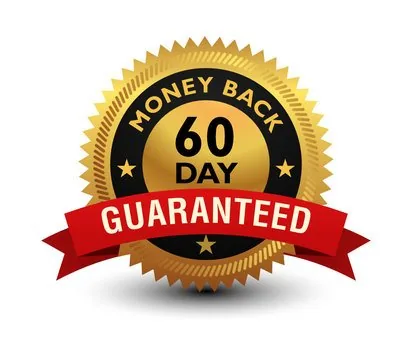
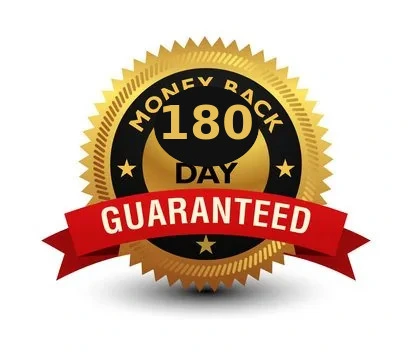
DTC aggressive creatives + 180-day guarantee everywhere (text + seal)

Changed region(s): [[0.3495, 0.2444, 0.6408, 0.4889]]

diff --git a/sales.html b/sales.html
@@ -179,7 +179,7 @@ h3{font-size:18px;margin:0 0 4px;font-weight:800}
       <li><b>Firmer, lifted skin</b> &mdash; no needles, no $12,000 BBL</li>
     </ul>
     <a class="cta" href="#offer">Get Up To 64% Off &rarr;</a>
-    <p class="subcta">Available online only &middot; While supplies last &middot; Free shipping &amp; 60-day money-back guarantee</p>
+    <p class="subcta">Available online only &middot; While supplies last &middot; Free shipping &amp; 180-day money-back guarantee</p>
     <img class="prod" src="img/00-product.webp" alt="Bumbum guaraná modelador jar" onerror="this.style.display='none'">
   </div>
 
@@ -234,8 +234,8 @@ h3{font-size:18px;margin:0 0 4px;font-weight:800}
 
   <div class="gcta">
     <img src="img/01-hero.webp" alt="Bumbum jar" onerror="this.style.display='none'">
-    <div class="t" style="font-weight:900;font-size:19px;color:#14181f">Try Bumbum &mdash; 60 Days Risk-Free</div>
-    <p style="margin:6px 0 12px;font-size:14.5px;color:#444">Every order is backed by our 60-day money-back guarantee. All transactions are secure and encrypted.</p>
+    <div class="t" style="font-weight:900;font-size:19px;color:#14181f">Try Bumbum &mdash; 180 Days Risk-Free</div>
+    <p style="margin:6px 0 12px;font-size:14.5px;color:#444">Every order is backed by our 180-day money-back guarantee. All transactions are secure and encrypted.</p>
     <a class="cta" href="#offer" style="margin-top:0">Get Up To 64% Off &rarr;</a>
     <p class="cscar">&#128666; Ships in 24h from the USA &middot; small-batch &mdash; may sell out</p>
   </div>
@@ -263,7 +263,7 @@ h3{font-size:18px;margin:0 0 4px;font-weight:800}
       <tr><th>Softens cellulite &amp; stretch marks</th><td class="no">&#10007;</td><td class="no">&#10007;</td><td>Some</td><td class="best">Both</td></tr>
       <tr><th>No needles, no downtime</th><td class="yes">&#10003;</td><td class="yes">&#10003;</td><td class="no">&#10007;</td><td class="best">&#10003;</td></tr>
       <tr><th>Typical cost</th><td>~$120/jar</td><td>$200+/visit</td><td>$8k&ndash;$15k</td><td class="best">from $25/jar</td></tr>
-      <tr><th>60-day money-back</th><td class="no">&#10007;</td><td class="no">&#10007;</td><td class="no">&#10007;</td><td class="best">&#10003;</td></tr>
+      <tr><th>180-day money-back</th><td class="no">&#10007;</td><td class="no">&#10007;</td><td class="no">&#10007;</td><td class="best">&#10003;</td></tr>
     </tbody>
   </table>
 
@@ -298,14 +298,14 @@ h3{font-size:18px;margin:0 0 4px;font-weight:800}
   <p>The curve only bends upward around week 6 &mdash; which is exactly why most women order <b>2&ndash;3 jars</b> and finish the full cycle instead of stopping right as their skin starts to turn.</p>
 
   <div class="gtee">
-    <img src="img/guarantee-seal.webp" alt="60-day money-back guarantee" onerror="this.style.display='none'">
-    <div class="t">60-Day Money-Back Guarantee</div>
-    <p style="margin:0">Try Bumbum for a full 60 days. If your bottom isn&rsquo;t visibly firmer &mdash; for any reason &mdash; email us and get every penny back, even on an opened jar. Most women never send it back.</p>
+    <img src="img/guarantee-seal.webp" alt="180-day money-back guarantee" onerror="this.style.display='none'">
+    <div class="t">180-Day Money-Back Guarantee</div>
+    <p style="margin:0">Try Bumbum for a full 180 days. If your bottom isn&rsquo;t visibly firmer &mdash; for any reason &mdash; email us and get every penny back, even on an opened jar. Most women never send it back.</p>
     <p style="margin:8px 0 0;font-size:13px;color:var(--muted)">Questions? support@itsbrazilianusa.com</p>
   </div>
 
   <div class="gtee2">
-    <div class="t">Firmer In 60 Days &mdash; Or You Pay Nothing. Period.</div>
+    <div class="t">Firmer In 180 Days &mdash; Or You Pay Nothing. Period.</div>
     <p style="margin:0">We&rsquo;ll say it plainly: the only real risk is doing nothing and staying exactly where you are six months from now. The risk of trying sits entirely with us.</p>
   </div>
 
@@ -316,7 +316,7 @@ h3{font-size:18px;margin:0 0 4px;font-weight:800}
     <details><summary>How long does one jar last?</summary><p>About 4 weeks with daily use on the bottom and thighs. Most women choose the 2 or 3-jar kit to finish the full 60&ndash;90 day cycle without running out mid-transformation.</p></details>
     <details><summary>Is it safe for sensitive skin?</summary><p>It&rsquo;s a topical cosmetic &mdash; guaran&aacute;, cupua&ccedil;u butter and a&ccedil;a&iacute;, cruelty-free and dermatologist-tested. Most report only a light guaran&aacute; warmth. Patch-test first if your skin is sensitive, and discontinue if irritation occurs.</p></details>
     <details><summary>Can I use it on thighs, tummy and arms?</summary><p>Yes. Women use the same 60-second ritual anywhere skin looks soft, dimpled or crepey &mdash; thighs, tummy, upper arms. Same cream, same technique.</p></details>
-    <details><summary>What if it doesn&rsquo;t work for me?</summary><p>You pay nothing. Every order is covered by a 60-day money-back guarantee &mdash; even on an opened jar. Email us and get a complete refund. No questions.</p></details>
+    <details><summary>What if it doesn&rsquo;t work for me?</summary><p>You pay nothing. Every order is covered by a 180-day money-back guarantee &mdash; even on an opened jar. Email us and get a complete refund. No questions.</p></details>
     <details><summary>How long will the discount last?</summary><p>The current discount is available while supplies last. Bumbum is small-batch and blended in the USA; when this batch sells out, restocking takes weeks, and the discount may not return.</p></details>
   </div>
 
@@ -337,7 +337,7 @@ h3{font-size:18px;margin:0 0 4px;font-weight:800}
       <li><b>8 fl oz (237 mL) jar</b> &mdash; about 30 days of the daily 60-second ritual</li>
       <li><b>The full guaran&aacute; modelador blend</b> &mdash; concentrated guaran&aacute;, cupua&ccedil;u butter &amp; Amazonian a&ccedil;a&iacute;</li>
       <li><b>Quick-start routine card</b> &mdash; exactly how and where to apply for best results</li>
-      <li><b>60-day money-back guarantee</b> &mdash; keep the jar even if you send it back</li>
+      <li><b>180-day money-back guarantee</b> &mdash; keep the jar even if you send it back</li>
     </ul>
   </div>
 
@@ -351,18 +351,18 @@ h3{font-size:18px;margin:0 0 4px;font-weight:800}
       <a class="pack" href="https://itsbrazilianusa.com/cart/53028021895457:1"><span class="badge">Best value</span><img src="img/pack-6.webp" alt="" onerror="this.style.display='none'"><div class="q">6 Jars</div><div class="was">$419.94</div><div class="now">$149.99</div><div class="per">$25.00/jar</div><div class="off">64% OFF</div></a>
     </div>
     <a class="cta" href="https://itsbrazilianusa.com/cart/53027149545761:1">Get Up To 64% Off &rarr;</a>
-    <p class="reassure">&#128274; Secure checkout &middot; &#128666; Free US shipping &middot; &#9989; 60-day money-back guarantee &mdash; keep the jar</p>
+    <p class="reassure">&#128274; Secure checkout &middot; &#128666; Free US shipping &middot; &#9989; 180-day money-back guarantee &mdash; keep the jar</p>
   </div>
   <div class="scarce">&#9203; Bumbum is small-batch and blended in the USA. When a batch sells out, restocking takes about 30 days &mdash; and this discount may not return with it. If it&rsquo;s in stock, this is the time.</div>
 
   <ul class="bonus">
     <li>Biggest discount &mdash; up to 64% off at today&rsquo;s price</li>
     <li>Free US shipping on every kit</li>
-    <li>60-day money-back guarantee &mdash; keep the jar</li>
+    <li>180-day money-back guarantee &mdash; keep the jar</li>
     <li>Free lifetime customer support</li>
   </ul>
   <a class="cta" href="https://itsbrazilianusa.com/cart/53027149545761:1">Claim Your Discount Before This Batch Is Gone &rarr;</a>
-  <p class="subcta">One-time purchase &middot; no subscription &middot; free US shipping &middot; 60-day money-back guarantee</p>
+  <p class="subcta">One-time purchase &middot; no subscription &middot; free US shipping &middot; 180-day money-back guarantee</p>
 
   <p class="disc"><b>Advertisement.</b> This is a paid advertisement, not a news article, blog, or consumer-protection update. Bumbum is a cosmetic product for the appearance of skin firmness. It is not a drug and is not intended to diagnose, treat, cure or prevent any disease, and is not a substitute for surgery or any medical treatment. It is not affiliated with, endorsed by, or a replacement for any surgical or injection brand. Any research referenced evaluates the individual ingredients (the caffeine/guaran&aacute; class, cupua&ccedil;u, a&ccedil;a&iacute;), not this finished product, and has not been independently verified here. Statements regarding the product have not been evaluated by the FDA. Individual results vary and are not guaranteed. Testimonials and before/after images reflect voluntary individual reports and do not represent typical results; some names and images shown are illustrative representations used to protect customer privacy. Consult a professional for any skin concern.
   <br><br><b>Clinical research:</b> 1) <i>Cosmetics</i> (MDPI), 2025, 12(4):155 &mdash; topical caffeine cream-gel for cellulite (56 participants, 8 weeks). 2) <i>Pharmaceutics</i> (MDPI), 2026, 18(2):151 &mdash; randomized double-blind caffeine cream, 12 weeks. 3) <i>Industrial Crops &amp; Products</i> &mdash; a&ccedil;a&iacute; (<i>Euterpe oleracea</i>) collagenase/elastase inhibition.</p>

diff --git a/advertorial.html b/advertorial.html
@@ -222,7 +222,7 @@ p{margin:0 0 16px}
     <figure><img src="img/ing-acai.webp" alt="Amazonian açaí" onerror="this.style.display='none'"><figcaption><b>A&ccedil;a&iacute;</b> &mdash; one of earth&rsquo;s densest antioxidants; defends against daily skin breakdown</figcaption></figure>
   </div>
   <p><b>Guaran&aacute; tightens</b> &mdash; but tight skin still needs to be fed, so they add <b>cupua&ccedil;u butter</b> to hydrate the crepey, deflated look. Then <b>Amazonian a&ccedil;a&iacute;</b> &mdash; studied for its effect on the enzymes that break down collagen and elastin &mdash; to defend the skin from the daily breakdown that leaves a bottom looking flat. Most creams stop at one watered-down active. This one layers three, each with a job.</p>
-  <p>And the thing that finally got me over the line: a <b>60-day money-back guarantee.</b> Firmer, or every penny back &mdash; even on an opened, half-used jar. So I did the math. One jar to test the water, or the multi-jar kit for the full cycle at the biggest discount. Lorena said, &ldquo;Buy the three. Trust me &mdash; nobody sees it in two weeks and nobody quits after they do.&rdquo; I bought the three.</p>
+  <p>And the thing that finally got me over the line: a <b>180-day money-back guarantee.</b> Firmer, or every penny back &mdash; even on an opened, half-used jar. So I did the math. One jar to test the water, or the multi-jar kit for the full cycle at the biggest discount. Lorena said, &ldquo;Buy the three. Trust me &mdash; nobody sees it in two weeks and nobody quits after they do.&rdquo; I bought the three.</p>
 
   <h2>My 90 Days (I Kept Notes, Because I Didn&rsquo;t Believe It)</h2>
   <div class="diary"><div class="wk">Days 1&ndash;5</div>The first thing I noticed wasn&rsquo;t visual &mdash; it was a <b>warmth</b> and a tighter feeling after the shower. The guaran&aacute; does something you can feel. I caught myself actually looking forward to the 60 seconds. It felt like doing something <em>for</em> myself instead of hiding from myself.</div>
@@ -248,7 +248,7 @@ p{margin:0 0 16px}
   <div class="obj"><div class="q">&ldquo;I&rsquo;m too old / it&rsquo;s too far gone.&rdquo;</div>The whole point is the layer, not your age. Septae stiffen with time &mdash; that&rsquo;s <em>why</em> this shows up after 40, 50, 60. Reaching that layer is exactly what the modelador ritual is built for. The women who write in the happiest are usually the ones who&rsquo;d already &ldquo;given up.&rdquo;</div>
   <div class="obj"><div class="q">&ldquo;My skin went loose after weight loss (or a GLP-1).&rdquo;</div>Rapid loss leaves skin that used to be filled out suddenly looking deflated and crepey &mdash; a firmness problem, not a fat problem. That&rsquo;s the same middle layer. Hydration plus the tightening active is aimed right at it.</div>
   <div class="obj"><div class="q">&ldquo;Even if it works, it&rsquo;ll just wear off.&rdquo;</div>It&rsquo;s a daily 60-second ritual, like brushing your teeth &mdash; not a one-time reset. Brazilian women don&rsquo;t do it for 8 weeks and stop. They do it because it&rsquo;s just part of the day. The results hold as long as the ritual does.</div>
-  <div class="obj"><div class="q">&ldquo;The testimonials are probably fake.&rdquo;</div>I thought so too. That&rsquo;s the entire reason there&rsquo;s a 60-day money-back guarantee on an opened jar &mdash; so you don&rsquo;t have to trust a stranger&rsquo;s photo. You test it on <em>your</em> skin, and if it doesn&rsquo;t do what they say, you send it back and it cost you nothing.</div>
+  <div class="obj"><div class="q">&ldquo;The testimonials are probably fake.&rdquo;</div>I thought so too. That&rsquo;s the entire reason there&rsquo;s a 180-day money-back guarantee on an opened jar &mdash; so you don&rsquo;t have to trust a stranger&rsquo;s photo. You test it on <em>your</em> skin, and if it doesn&rsquo;t do what they say, you send it back and it cost you nothing.</div>
   <div class="obj"><div class="q">&ldquo;I can&rsquo;t afford another thing that doesn&rsquo;t work.&rdquo;</div>That&rsquo;s the honest one. Which is why I&rsquo;d rather you try one jar you can send back for a full refund than sink money into another spa package &mdash; or a $12,000 surgery with no guarantee at all. The guarantee is designed so the risk sits on them, not on you.</div>
   <p>Here&rsquo;s the honest expectation-setting, because I won&rsquo;t insult you: <b>this is not overnight, and it is not surgery.</b> It&rsquo;s a daily ritual that women report following this rough timeline:</p>
   <div class="anchorbox">
@@ -259,8 +259,8 @@ p{margin:0 0 16px}
   <p>That&rsquo;s why the women who actually see it through order 2&ndash;3 jars and finish the full cycle &mdash; instead of quitting at week two, right when the skin is about to turn.</p>
 
   <h2 id="offer">Where Rachel Got It</h2>
-  <p>Bumbum doesn&rsquo;t sit on a shelf next to the designer jars &mdash; it ships direct from the brand, and it&rsquo;s the same guaran&aacute; modelador Lorena has used for years. What finally made me comfortable trying it was the <b>60-day money-back guarantee:</b> firmer, or every penny back &mdash; even on an opened, half-used jar. The risk sits with them, not with you.</p>
-  <figure><img src="img/guarantee-seal.webp" alt="60-day money-back guarantee" style="max-width:150px;margin:0 auto"><figcaption>Firmer in 60 days or every penny back &mdash; even on an opened jar.</figcaption></figure>
+  <p>Bumbum doesn&rsquo;t sit on a shelf next to the designer jars &mdash; it ships direct from the brand, and it&rsquo;s the same guaran&aacute; modelador Lorena has used for years. What finally made me comfortable trying it was the <b>180-day money-back guarantee:</b> firmer, or every penny back &mdash; even on an opened, half-used jar. The risk sits with them, not with you.</p>
+  <figure><img src="img/guarantee-seal.webp" alt="180-day money-back guarantee" style="max-width:150px;margin:0 auto"><figcaption>Firmer in 180 days or every penny back &mdash; even on an opened jar.</figcaption></figure>
   <p>Because it&rsquo;s small-batch and blended in the USA, it does sell out &mdash; Lorena warned me hers was on backorder once for three weeks. If it&rsquo;s in stock when you check, I wouldn&rsquo;t wait and hope it&rsquo;s there next week.</p>
 
   <h2 id="reviews">Real Women, Real Results</h2>
@@ -278,9 +278,9 @@ p{margin:0 0 16px}
   <p>Six months from now you&rsquo;ll be one of two women.</p>
   <p>The first is still wrapping the sarong. Still angling out of the photo. Still reaching for the light switch. Still telling her kid she &ldquo;doesn&rsquo;t feel like swimming.&rdquo; Nothing changed, because nothing changed.</p>
   <p>The second one gave it 60 seconds a day &mdash; and got in the pool.</p>
-  <p>The only thing standing between them is a decision you can make in the next 90 seconds &mdash; while it&rsquo;s in stock and the 60-day guarantee keeps every dollar of the risk on them, not you. I waited six years to try something that costs 60 seconds a day. Don&rsquo;t be me. Start today.</p>
+  <p>The only thing standing between them is a decision you can make in the next 90 seconds &mdash; while it&rsquo;s in stock and the 180-day guarantee keeps every dollar of the risk on them, not you. I waited six years to try something that costs 60 seconds a day. Don&rsquo;t be me. Start today.</p>
   <a class="cta" href="sales.html">Check availability &rarr;</a>
-  <p class="sub">One-time purchase &middot; no subscription &middot; free US shipping &middot; 60-day money-back guarantee</p>
+  <p class="sub">One-time purchase &middot; no subscription &middot; free US shipping &middot; 180-day money-back guarantee</p>
 
   <div class="author">
     <div><div class="n">Medically reviewed by Dr. Beatriz Moreira, M.D.</div><div class="r">Board-Certified Dermatologist &middot; Skin &amp; Body. Dr. Moreira reviews Brazilian skincare content for HealthWire.</div></div>

diff --git a/index.html b/index.html
@@ -222,7 +222,7 @@ p{margin:0 0 16px}
     <figure><img src="img/ing-acai.webp" alt="Amazonian açaí" onerror="this.style.display='none'"><figcaption><b>A&ccedil;a&iacute;</b> &mdash; one of earth&rsquo;s densest antioxidants; defends against daily skin breakdown</figcaption></figure>
   </div>
   <p><b>Guaran&aacute; tightens</b> &mdash; but tight skin still needs to be fed, so they add <b>cupua&ccedil;u butter</b> to hydrate the crepey, deflated look. Then <b>Amazonian a&ccedil;a&iacute;</b> &mdash; studied for its effect on the enzymes that break down collagen and elastin &mdash; to defend the skin from the daily breakdown that leaves a bottom looking flat. Most creams stop at one watered-down active. This one layers three, each with a job.</p>
-  <p>And the thing that finally got me over the line: a <b>60-day money-back guarantee.</b> Firmer, or every penny back &mdash; even on an opened, half-used jar. So I did the math. One jar to test the water, or the multi-jar kit for the full cycle at the biggest discount. Lorena said, &ldquo;Buy the three. Trust me &mdash; nobody sees it in two weeks and nobody quits after they do.&rdquo; I bought the three.</p>
+  <p>And the thing that finally got me over the line: a <b>180-day money-back guarantee.</b> Firmer, or every penny back &mdash; even on an opened, half-used jar. So I did the math. One jar to test the water, or the multi-jar kit for the full cycle at the biggest discount. Lorena said, &ldquo;Buy the three. Trust me &mdash; nobody sees it in two weeks and nobody quits after they do.&rdquo; I bought the three.</p>
 
   <h2>My 90 Days (I Kept Notes, Because I Didn&rsquo;t Believe It)</h2>
   <div class="diary"><div class="wk">Days 1&ndash;5</div>The first thing I noticed wasn&rsquo;t visual &mdash; it was a <b>warmth</b> and a tighter feeling after the shower. The guaran&aacute; does something you can feel. I caught myself actually looking forward to the 60 seconds. It felt like doing something <em>for</em> myself instead of hiding from myself.</div>
@@ -248,7 +248,7 @@ p{margin:0 0 16px}
   <div class="obj"><div class="q">&ldquo;I&rsquo;m too old / it&rsquo;s too far gone.&rdquo;</div>The whole point is the layer, not your age. Septae stiffen with time &mdash; that&rsquo;s <em>why</em> this shows up after 40, 50, 60. Reaching that layer is exactly what the modelador ritual is built for. The women who write in the happiest are usually the ones who&rsquo;d already &ldquo;given up.&rdquo;</div>
   <div class="obj"><div class="q">&ldquo;My skin went loose after weight loss (or a GLP-1).&rdquo;</div>Rapid loss leaves skin that used to be filled out suddenly looking deflated and crepey &mdash; a firmness problem, not a fat problem. That&rsquo;s the same middle layer. Hydration plus the tightening active is aimed right at it.</div>
   <div class="obj"><div class="q">&ldquo;Even if it works, it&rsquo;ll just wear off.&rdquo;</div>It&rsquo;s a daily 60-second ritual, like brushing your teeth &mdash; not a one-time reset. Brazilian women don&rsquo;t do it for 8 weeks and stop. They do it because it&rsquo;s just part of the day. The results hold as long as the ritual does.</div>
-  <div class="obj"><div class="q">&ldquo;The testimonials are probably fake.&rdquo;</div>I thought so too. That&rsquo;s the entire reason there&rsquo;s a 60-day money-back guarantee on an opened jar &mdash; so you don&rsquo;t have to trust a stranger&rsquo;s photo. You test it on <em>your</em> skin, and if it doesn&rsquo;t do what they say, you send it back and it cost you nothing.</div>
+  <div class="obj"><div class="q">&ldquo;The testimonials are probably fake.&rdquo;</div>I thought so too. That&rsquo;s the entire reason there&rsquo;s a 180-day money-back guarantee on an opened jar &mdash; so you don&rsquo;t have to trust a stranger&rsquo;s photo. You test it on <em>your</em> skin, and if it doesn&rsquo;t do what they say, you send it back and it cost you nothing.</div>
   <div class="obj"><div class="q">&ldquo;I can&rsquo;t afford another thing that doesn&rsquo;t work.&rdquo;</div>That&rsquo;s the honest one. Which is why I&rsquo;d rather you try one jar you can send back for a full refund than sink money into another spa package &mdash; or a $12,000 surgery with no guarantee at all. The guarantee is designed so the risk sits on them, not on you.</div>
   <p>Here&rsquo;s the honest expectation-setting, because I won&rsquo;t insult you: <b>this is not overnight, and it is not surgery.</b> It&rsquo;s a daily ritual that women report following this rough timeline:</p>
   <div class="anchorbox">
@@ -259,8 +259,8 @@ p{margin:0 0 16px}
   <p>That&rsquo;s why the women who actually see it through order 2&ndash;3 jars and finish the full cycle &mdash; instead of quitting at week two, right when the skin is about to turn.</p>
 
   <h2 id="offer">Where Rachel Got It</h2>
-  <p>Bumbum doesn&rsquo;t sit on a shelf next to the designer jars &mdash; it ships direct from the brand, and it&rsquo;s the same guaran&aacute; modelador Lorena has used for years. What finally made me comfortable trying it was the <b>60-day money-back guarantee:</b> firmer, or every penny back &mdash; even on an opened, half-used jar. The risk sits with them, not with you.</p>
-  <figure><img src="img/guarantee-seal.webp" alt="60-day money-back guarantee" style="max-width:150px;margin:0 auto"><figcaption>Firmer in 60 days or every penny back &mdash; even on an opened jar.</figcaption></figure>
+  <p>Bumbum doesn&rsquo;t sit on a shelf next to the designer jars &mdash; it ships direct from the brand, and it&rsquo;s the same guaran&aacute; modelador Lorena has used for years. What finally made me comfortable trying it was the <b>180-day money-back guarantee:</b> firmer, or every penny back &mdash; even on an opened, half-used jar. The risk sits with them, not with you.</p>
+  <figure><img src="img/guarantee-seal.webp" alt="180-day money-back guarantee" style="max-width:150px;margin:0 auto"><figcaption>Firmer in 180 days or every penny back &mdash; even on an opened jar.</figcaption></figure>
   <p>Because it&rsquo;s small-batch and blended in the USA, it does sell out &mdash; Lorena warned me hers was on backorder once for three weeks. If it&rsquo;s in stock when you check, I wouldn&rsquo;t wait and hope it&rsquo;s there next week.</p>
 
   <h2 id="reviews">Real Women, Real Results</h2>
@@ -278,9 +278,9 @@ p{margin:0 0 16px}
   <p>Six months from now you&rsquo;ll be one of two women.</p>
   <p>The first is still wrapping the sarong. Still angling out of the photo. Still reaching for the light switch. Still telling her kid she &ldquo;doesn&rsquo;t feel like swimming.&rdquo; Nothing changed, because nothing changed.</p>
   <p>The second one gave it 60 seconds a day &mdash; and got in the pool.</p>
-  <p>The only thing standing between them is a decision you can make in the next 90 seconds &mdash; while it&rsquo;s in stock and the 60-day guarantee keeps every dollar of the risk on them, not you. I waited six years to try something that costs 60 seconds a day. Don&rsquo;t be me. Start today.</p>
+  <p>The only thing standing between them is a decision you can make in the next 90 seconds &mdash; while it&rsquo;s in stock and the 180-day guarantee keeps every dollar of the risk on them, not you. I waited six years to try something that costs 60 seconds a day. Don&rsquo;t be me. Start today.</p>
   <a class="cta" href="sales.html">Check availability &rarr;</a>
-  <p class="sub">One-time purchase &middot; no subscription &middot; free US shipping &middot; 60-day money-back guarantee</p>
+  <p class="sub">One-time purchase &middot; no subscription &middot; free US shipping &middot; 180-day money-back guarantee</p>
 
   <div class="author">
     <div><div class="n">Medically reviewed by Dr. Beatriz Moreira, M.D.</div><div class="r">Board-Certified Dermatologist &middot; Skin &amp; Body. Dr. Moreira reviews Brazilian skincare content for HealthWire.</div></div>

diff --git a/story.html b/story.html
@@ -222,7 +222,7 @@ p{margin:0 0 16px}
     <figure><img src="img/ing-acai.webp" alt="Amazonian açaí" onerror="this.style.display='none'"><figcaption><b>A&ccedil;a&iacute;</b> &mdash; one of earth&rsquo;s densest antioxidants; defends against daily skin breakdown</figcaption></figure>
   </div>
   <p><b>Guaran&aacute; tightens</b> &mdash; but tight skin still needs to be fed, so they add <b>cupua&ccedil;u butter</b> to hydrate the crepey, deflated look. Then <b>Amazonian a&ccedil;a&iacute;</b> &mdash; studied for its effect on the enzymes that break down collagen and elastin &mdash; to defend the skin from the daily breakdown that leaves a bottom looking flat. Most creams stop at one watered-down active. This one layers three, each with a job.</p>
-  <p>And the thing that finally got me over the line: a <b>60-day money-back guarantee.</b> Firmer, or every penny back &mdash; even on an opened, half-used jar. So I did the math. One jar to test the water, or the multi-jar kit for the full cycle at the biggest discount. Lorena said, &ldquo;Buy the three. Trust me &mdash; nobody sees it in two weeks and nobody quits after they do.&rdquo; I bought the three.</p>
+  <p>And the thing that finally got me over the line: a <b>180-day money-back guarantee.</b> Firmer, or every penny back &mdash; even on an opened, half-used jar. So I did the math. One jar to test the water, or the multi-jar kit for the full cycle at the biggest discount. Lorena said, &ldquo;Buy the three. Trust me &mdash; nobody sees it in two weeks and nobody quits after they do.&rdquo; I bought the three.</p>
 
   <h2>My 90 Days (I Kept Notes, Because I Didn&rsquo;t Believe It)</h2>
   <div class="diary"><div class="wk">Days 1&ndash;5</div>The first thing I noticed wasn&rsquo;t visual &mdash; it was a <b>warmth</b> and a tighter feeling after the shower. The guaran&aacute; does something you can feel. I caught myself actually looking forward to the 60 seconds. It felt like doing something <em>for</em> myself instead of hiding from myself.</div>
@@ -248,7 +248,7 @@ p{margin:0 0 16px}
   <div class="obj"><div class="q">&ldquo;I&rsquo;m too old / it&rsquo;s too far gone.&rdquo;</div>The whole point is the layer, not your age. Septae stiffen with time &mdash; that&rsquo;s <em>why</em> this shows up after 40, 50, 60. Reaching that layer is exactly what the modelador ritual is built for. The women who write in the happiest are usually the ones who&rsquo;d already &ldquo;given up.&rdquo;</div>
   <div class="obj"><div class="q">&ldquo;My skin went loose after weight loss (or a GLP-1).&rdquo;</div>Rapid loss leaves skin that used to be filled out suddenly looking deflated and crepey &mdash; a firmness problem, not a fat problem. That&rsquo;s the same middle layer. Hydration plus the tightening active is aimed right at it.</div>
   <div class="obj"><div class="q">&ldquo;Even if it works, it&rsquo;ll just wear off.&rdquo;</div>It&rsquo;s a daily 60-second ritual, like brushing your teeth &mdash; not a one-time reset. Brazilian women don&rsquo;t do it for 8 weeks and stop. They do it because it&rsquo;s just part of the day. The results hold as long as the ritual does.</div>
-  <div class="obj"><div class="q">&ldquo;The testimonials are probably fake.&rdquo;</div>I thought so too. That&rsquo;s the entire reason there&rsquo;s a 60-day money-back guarantee on an opened jar &mdash; so you don&rsquo;t have to trust a stranger&rsquo;s photo. You test it on <em>your</em> skin, and if it doesn&rsquo;t do what they say, you send it back and it cost you nothing.</div>
+  <div class="obj"><div class="q">&ldquo;The testimonials are probably fake.&rdquo;</div>I thought so too. That&rsquo;s the entire reason there&rsquo;s a 180-day money-back guarantee on an opened jar &mdash; so you don&rsquo;t have to trust a stranger&rsquo;s photo. You test it on <em>your</em> skin, and if it doesn&rsquo;t do what they say, you send it back and it cost you nothing.</div>
   <div class="obj"><div class="q">&ldquo;I can&rsquo;t afford another thing that doesn&rsquo;t work.&rdquo;</div>That&rsquo;s the honest one. Which is why I&rsquo;d rather you try one jar you can send back for a full refund than sink money into another spa package &mdash; or a $12,000 surgery with no guarantee at all. The guarantee is designed so the risk sits on them, not on you.</div>
   <p>Here&rsquo;s the honest expectation-setting, because I won&rsquo;t insult you: <b>this is not overnight, and it is not surgery.</b> It&rsquo;s a daily ritual that women report following this rough timeline:</p>
   <div class="anchorbox">
@@ -259,8 +259,8 @@ p{margin:0 0 16px}
   <p>That&rsquo;s why the women who actually see it through order 2&ndash;3 jars and finish the full cycle &mdash; instead of quitting at week two, right when the skin is about to turn.</p>
 
   <h2 id="offer">Where Rachel Got It</h2>
-  <p>Bumbum doesn&rsquo;t sit on a shelf next to the designer jars &mdash; it ships direct from the brand, and it&rsquo;s the same guaran&aacute; modelador Lorena has used for years. What finally made me comfortable trying it was the <b>60-day money-back guarantee:</b> firmer, or every penny back &mdash; even on an opened, half-used jar. The risk sits with them, not with you.</p>
-  <figure><img src="img/guarantee-seal.webp" alt="60-day money-back guarantee" style="max-width:150px;margin:0 auto"><figcaption>Firmer in 60 days or every penny back &mdash; even on an opened jar.</figcaption></figure>
+  <p>Bumbum doesn&rsquo;t sit on a shelf next to the designer jars &mdash; it ships direct from the brand, and it&rsquo;s the same guaran&aacute; modelador Lorena has used for years. What finally made me comfortable trying it was the <b>180-day money-back guarantee:</b> firmer, or every penny back &mdash; even on an opened, half-used jar. The risk sits with them, not with you.</p>
+  <figure><img src="img/guarantee-seal.webp" alt="180-day money-back guarantee" style="max-width:150px;margin:0 auto"><figcaption>Firmer in 180 days or every penny back &mdash; even on an opened jar.</figcaption></figure>
   <p>Because it&rsquo;s small-batch and blended in the USA, it does sell out &mdash; Lorena warned me hers was on backorder once for three weeks. If it&rsquo;s in stock when you check, I wouldn&rsquo;t wait and hope it&rsquo;s there next week.</p>
 
   <h2 id="reviews">Real Women, Real Results</h2>
@@ -278,9 +278,9 @@ p{margin:0 0 16px}
   <p>Six months from now you&rsquo;ll be one of two women.</p>
   <p>The first is still wrapping the sarong. Still angling out of the photo. Still reaching for the light switch. Still telling her kid she &ldquo;doesn&rsquo;t feel like swimming.&rdquo; Nothing changed, because nothing changed.</p>
   <p>The second one gave it 60 seconds a day &mdash; and got in the pool.</p>
-  <p>The only thing standing between them is a decision you can make in the next 90 seconds &mdash; while it&rsquo;s in stock and the 60-day guarantee keeps every dollar of the risk on them, not you. I waited six years to try something that costs 60 seconds a day. Don&rsquo;t be me. Start today.</p>
+  <p>The only thing standing between them is a decision you can make in the next 90 seconds &mdash; while it&rsquo;s in stock and the 180-day guarantee keeps every dollar of the risk on them, not you. I waited six years to try something that costs 60 seconds a day. Don&rsquo;t be me. Start today.</p>
   <a class="cta" href="sales.html">Check availability &rarr;</a>
-  <p class="sub">One-time purchase &middot; no subscription &middot; free US shipping &middot; 60-day money-back guarantee</p>
+  <p class="sub">One-time purchase &middot; no subscription &middot; free US shipping &middot; 180-day money-back guarantee</p>
 
   <div class="author">
     <div><div class="n">Medically reviewed by Dr. Beatriz Moreira, M.D.</div><div class="r">Board-Certified Dermatologist &middot; Skin &amp; Body. Dr. Moreira reviews Brazilian skincare content for HealthWire.</div></div>

diff --git a/nb.html b/nb.html
@@ -122,7 +122,7 @@ h2{font-family:Georgia,serif;font-size:25px;line-height:1.26;margin:36px 0 10px;
 .award .t{font-family:Georgia,serif;font-size:20px;font-weight:900;margin-bottom:6px}
 .spin{max-width:300px;margin:14px auto;background:var(--rose);color:#fff;border-radius:12px;padding:16px;text-align:center;font-family:Arial,sans-serif}
 .spin .w{font-size:44px}
-.spin .b{display:inline-block;margin-top:8px;background:#fff;color:var(--rosed);font-weight:900;padding:8px 16px;border-radius:20px;font-size:13px;text-transform:uppercase;letter-spacing:.05em}
+.spin{cursor:pointer}.spin .b{display:inline-block;text-decoration:none;margin-top:8px;background:#fff;color:var(--rosed);font-weight:900;padding:8px 16px;border-radius:20px;font-size:13px;text-transform:uppercase;letter-spacing:.05em}
 .disc{max-width:var(--wrap);margin:24px auto 0;padding:18px;border-top:1px solid var(--line);font-family:Arial,sans-serif;font-size:11.5px;line-height:1.55;color:#8f8f8f}
 .disc b{color:#6a6a6a}
 .refs{font-family:Arial,sans-serif;font-size:11.5px;color:#9a9a9a;padding:0 18px}
@@ -435,7 +435,7 @@ h2{font-family:Georgia,serif;font-size:25px;line-height:1.26;margin:36px 0 10px;
     <div class="t">Winner &mdash; MyBodyMag Awards</div>
     <p style="font-family:Arial,sans-serif;font-size:14.5px;color:#444;margin:0">A newly discovered peptide just won because it reduced the appearance of cellulite by 52% and visibly lifted skin using just a topical cream &mdash; which used to sound impossible. The award-winning team tested 117 active ingredients over 18 months. Participants experienced firmer, more lifted skin after only 4 weeks; over 95% noticed smoother, more even skin.</p>
     <div style="text-align:left;border-top:1px solid var(--line);margin-top:14px;padding-top:14px"><p style="font-family:Arial,sans-serif;font-size:14.5px;line-height:1.5;color:#333;margin:0 0 12px"><b>Andrea Sheerin</b> &nbsp;<span style="color:#c99a3a">&#9733;&#9733;&#9733;&#9733;&#9733;</span><br>&ldquo;Most firming creams just sit on your skin. This one is different &mdash; it feels like it&rsquo;s working from day one. A few weeks in and my backside looks lifted and my skin looks toned. I&rsquo;m shocked.&rdquo;</p><p style="font-family:Arial,sans-serif;font-size:14.5px;line-height:1.5;color:#333;margin:0"><b>Maria Smith</b> &nbsp;<span style="color:#c99a3a">&#9733;&#9733;&#9733;&#9733;&#9733;</span><br>&ldquo;I was so skeptical. But thank God I took the chance &mdash; it changed my whole backside in a few weeks. The dimples look smoother and firmer. I&rsquo;ve finally found my holy grail.&rdquo;</p></div>
-    <div class="spin"><div class="w">&#127920;</div><div>Spin to reveal your reader discount</div><span class="b">Tap to check availability</span></div>
+    <div class="spin" onclick="location.href='sales.html'+location.search"><div class="w">&#127920;</div><div>Spin to reveal your reader discount</div><a class="b" href="sales.html">Tap to check availability</a></div>
   </div>
 
   <div class="comments">
